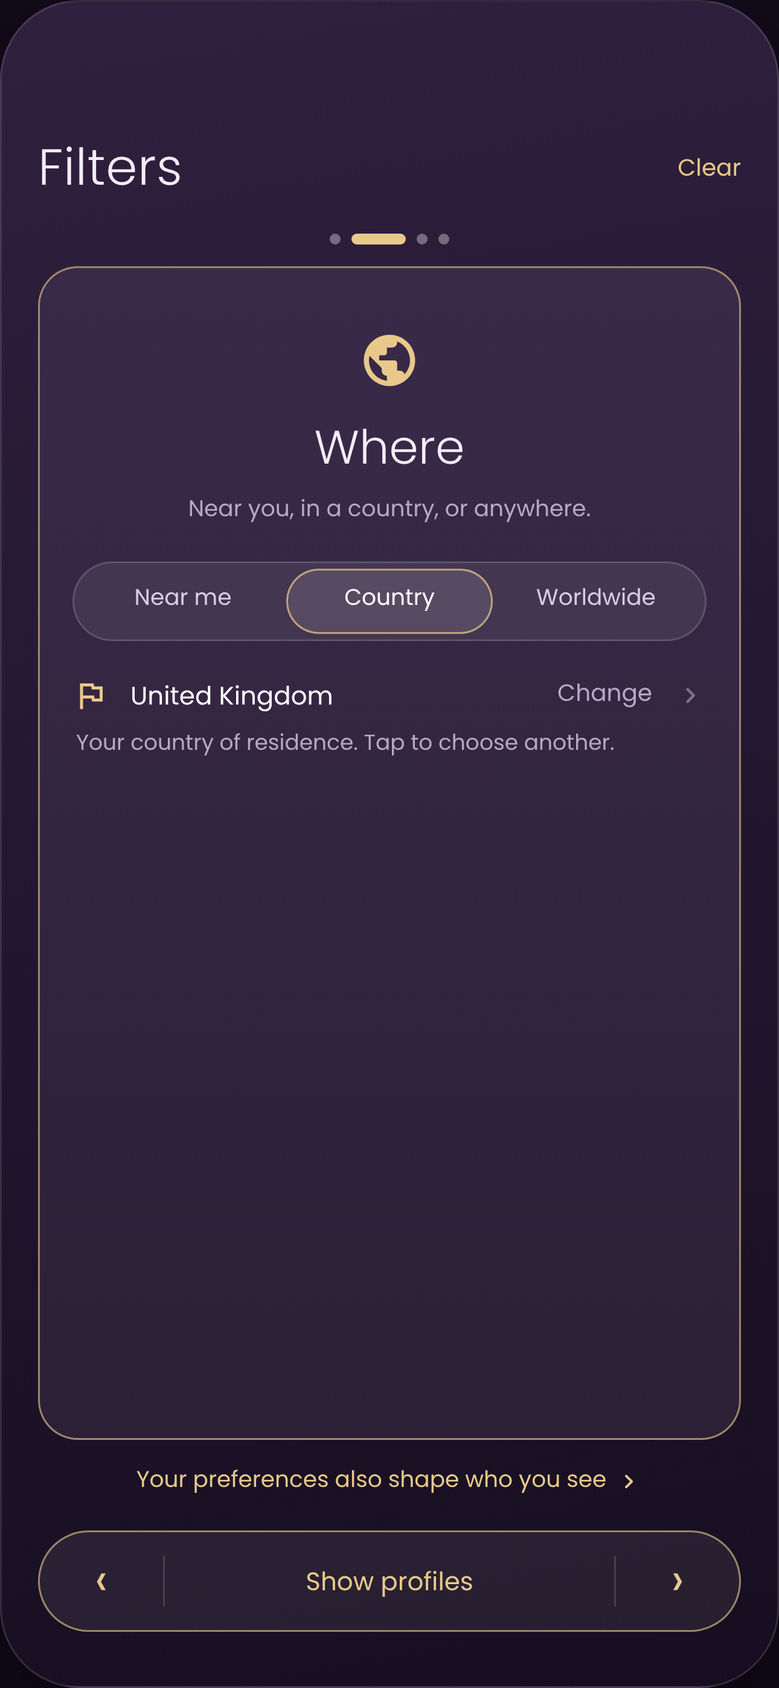
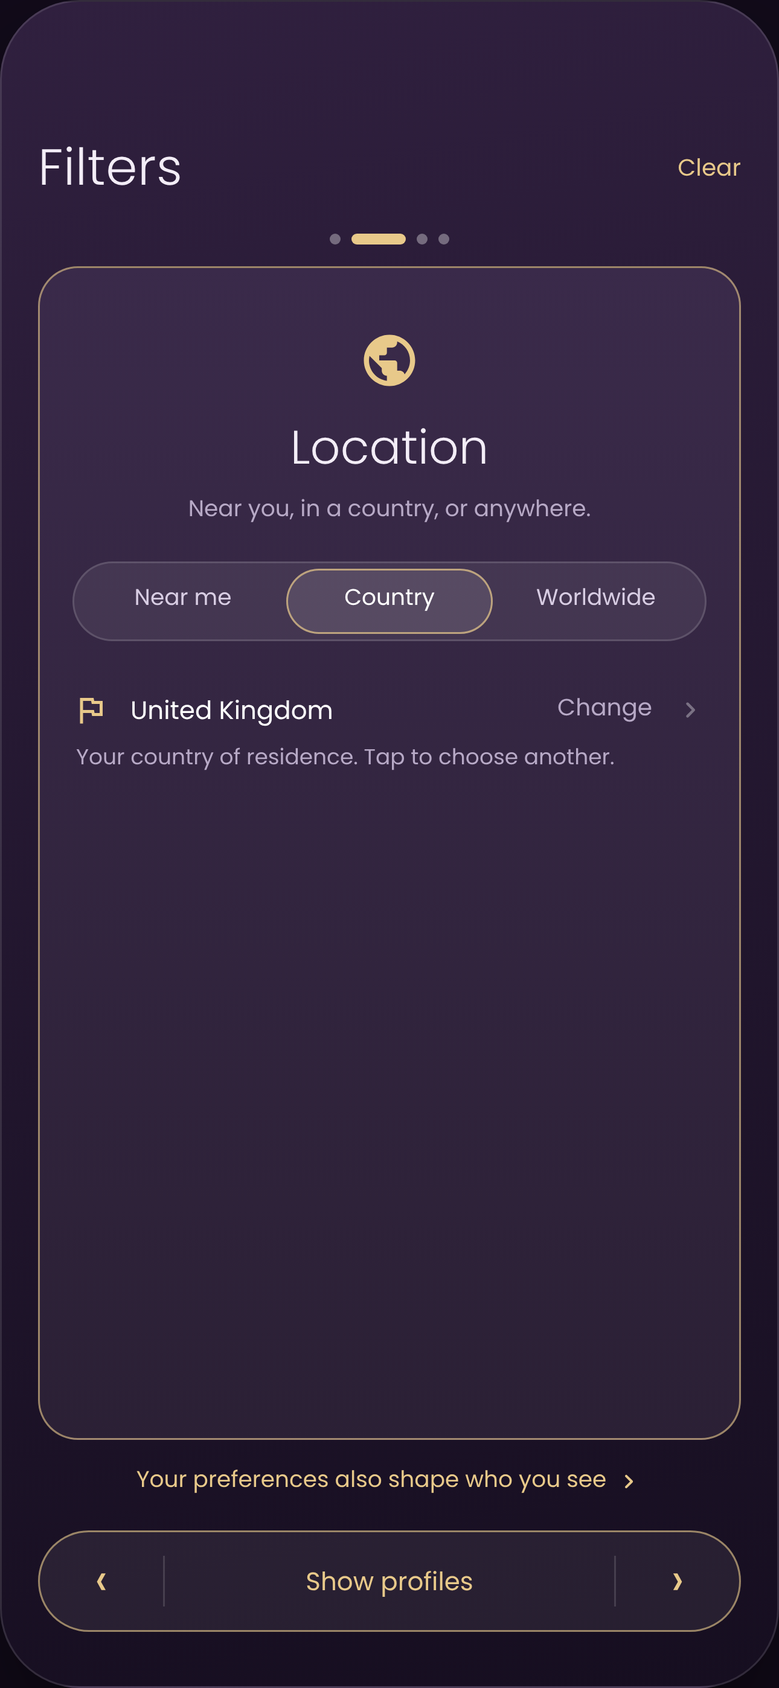
Apply LOCK10 V6 Location title and slider spacing (OA-ZYRA-316, AD-AIOS-115)

Changed region(s): [[0.093, 0.4045, 0.8372, 0.4667], [0.3721, 0.2489, 0.6202, 0.28]]

diff --git a/SOURCE/lib/dev/zyra_one_journey_filters_presentation.dart b/SOURCE/lib/dev/zyra_one_journey_filters_presentation.dart
@@ -1,4 +1,4 @@
-// LOCK10 V4 presentation for the local sample preview. No repositories,
+// LOCK10 V6 presentation for the local sample preview. No repositories,
 // transports, device permission, private answers or member counts.
 import 'package:flutter/material.dart';
 import '../data/zyra_reference_data.dart';
@@ -36,7 +36,7 @@ class _FiltersState extends State<ZyraOneJourneyFiltersPresentation> {
   final _focus = FocusNode();
   int _index = 0;
   int _pageEpoch = 0;
-  static const _names = ['Age', 'Where', 'Nationality', 'Ethnicity'];
+  static const _names = ['Age', 'Location', 'Nationality', 'Ethnicity'];
   static const _icons = [
     Icons.cake_outlined,
     Icons.public,
@@ -194,6 +194,7 @@ class _FiltersState extends State<ZyraOneJourneyFiltersPresentation> {
     );
     return _control(
       Container(
+        key: ValueKey('${prefix}_segments'),
         padding: const EdgeInsets.all(3),
         decoration: BoxDecoration(
           color: ZyraColors.surfaceFill,
@@ -311,6 +312,7 @@ class _FiltersState extends State<ZyraOneJourneyFiltersPresentation> {
           'concept_age',
         ),
         if (f.hasAgeRange) ...[
+          const SizedBox(height: 26),
           _slider(
             RangeSlider(
               key: const ValueKey('concept_age_range'),
@@ -351,7 +353,7 @@ class _FiltersState extends State<ZyraOneJourneyFiltersPresentation> {
           (i) => _change(f.withWhere(ZyraBrowseWhere.values[i])),
           'concept_where',
         ),
-        const SizedBox(height: 12),
+        const SizedBox(height: 22),
         if (f.where == ZyraBrowseWhere.country) ...[
           _placeRow(
             Icons.outlined_flag,
@@ -367,18 +369,22 @@ class _FiltersState extends State<ZyraOneJourneyFiltersPresentation> {
         ] else if (f.where == ZyraBrowseWhere.worldwide)
           _text('Members anywhere in the world.', align: TextAlign.center)
         else ...[
-          _placeRow(
-            widget.currentArea ? Icons.my_location : Icons.home_outlined,
-            widget.currentArea
-                ? 'From your current area'
-                : zyraBrowseSampleOriginLabel,
-            _button(
-              'concept_filter_origin',
-              'Change',
-              widget.canAct() ? widget.onOrigin : null,
-              size: 12,
+          KeyedSubtree(
+            key: const ValueKey('concept_filter_origin_row'),
+            child: _placeRow(
+              widget.currentArea ? Icons.my_location : Icons.home_outlined,
+              widget.currentArea
+                  ? 'From your current area'
+                  : zyraBrowseSampleOriginLabel,
+              _button(
+                'concept_filter_origin',
+                'Change',
+                widget.canAct() ? widget.onOrigin : null,
+                size: 12,
+              ),
             ),
           ),
+          const SizedBox(height: 18),
           _slider(
             Slider(
               key: const ValueKey('concept_radius'),

diff --git a/SOURCE/test/visual/lock10_filters_capture_test.dart b/SOURCE/test/visual/lock10_filters_capture_test.dart
@@ -1,4 +1,4 @@
-// Actual LOCK10 V4 local shell interactions. Insets prove layout only:
+// Actual LOCK10 V6 local shell interactions. Insets prove layout only:
 // the headless renderer cannot provide an iPhone system keyboard.
 import 'package:flutter/material.dart';
 import 'package:flutter_test/flutter_test.dart';
@@ -47,7 +47,7 @@ void main() {
             file,
             file,
             inset
-                ? 'HEADLESS INSET LAYOUT ONLY; actual system keyboard proof pending OA-ZYRA-323.'
+                ? 'HEADLESS INSET LAYOUT ONLY; native keyboard proof is separately captured from installed V4 aab4973.'
                 : 'Actual sample shell; network blocked.',
             fileName: '$file.png',
           );
@@ -73,6 +73,11 @@ void main() {
       );
       await h.flush();
       expect(
+        t.getRect(key('concept_age_range')).top -
+            t.getRect(key('concept_age_segments')).bottom,
+        26,
+      );
+      expect(
         h.latest.browseFilter.hasAgeRange,
         isFalse,
         reason: 'Editing is not applied to the checkpoint.',
@@ -80,12 +85,23 @@ void main() {
       await cap('f02_age__range');
       await h.tap('concept_reset_filter_draft');
       await h.tap('filter_next');
-      expect(find.bySemanticsLabel('Where, filter 2 of 4'), findsOneWidget);
+      expect(find.bySemanticsLabel('Location, filter 2 of 4'), findsOneWidget);
+      expect(find.text('Location'), findsOneWidget);
       expect(find.text('United Kingdom'), findsOneWidget);
       await cap('f03_where__country');
       await h.tap('concept_where_0');
       expect(t.widget<Slider>(key('concept_radius')).value, 4);
       expect(find.text('Within 50 km'), findsOneWidget);
+      expect(
+        t.getRect(key('concept_filter_origin_row')).top -
+            t.getRect(key('concept_where_segments')).bottom,
+        22,
+      );
+      expect(
+        t.getRect(key('concept_radius')).top -
+            t.getRect(key('concept_filter_origin_row')).bottom,
+        18,
+      );
       await cap('f04_where__near_me');
       await h.tap('concept_filter_origin');
       expect(find.text('Where should distance start?'), findsOneWidget);

diff --git a/SOURCE/test/filters_lock10_accessibility_test.dart b/SOURCE/test/filters_lock10_accessibility_test.dart
@@ -79,6 +79,11 @@ void main() {
           expect(range.semanticFormatterCallback!(24), '24 years');
           await t.tap(k('filter_next'));
           await t.pumpAndSettle();
+          expect(
+            find.bySemanticsLabel('Location, filter 2 of 4'),
+            findsOneWidget,
+          );
+          expect(find.text('Location'), findsOneWidget);
           await t.ensureVisible(k('concept_where_0'));
           await t.tap(k('concept_where_0'));
           await t.pumpAndSettle();

diff --git a/PRODUCT/APPROVED/FILTERS/RECORD/FILTERS_SPEC_CURRENT_VERSION_V6.md b/PRODUCT/APPROVED/FILTERS/RECORD/FILTERS_SPEC_CURRENT_VERSION_V6.md
@@ -1,0 +1,62 @@
+---
+id: TBC (Fable assigns)
+type: SPEC
+status: CURRENT
+feature: PRODUCT BLUEPRINT
+purpose: Spec for LOCK 10 - Filters page (V4 - swipe cards, one filter per card; Where; searchable Nationality and Ethnicity)
+links: [DOC-ZYRA-0284, DOC-ZYRA-0329, AD-AIOS-115]
+owner: ZYRA chat
+---
+
+# FILTERS — SPEC — V6 (LOCKED 30 OCT 2026)
+
+V5 is in `../ARCHIVE/FILTERS_SPEC_2026-10-30_V5.md`. **What changed (V6):** the "Where" card is now titled **"Location"** (Founder 30 Oct:
+"lets change this to location"); f03–f05 re-rendered (prototype V84). Everything else as V5.
+
+V4 is in `../ARCHIVE/FILTERS_SPEC_2026-10-30_V4.md` (its f01–f05 in `../ARCHIVE/MASTERS_V4/`). **What changed (V5):** more space
+between the segmented pills and the sliders (Founder 30 Oct: "the slider in real app is way to close to the 2 pills above it fix
+that please"). f01–f05 re-rendered (prototype V83); nothing else changes.
+
+V1–V3 are in `../ARCHIVE/` (V3 masters in `../ARCHIVE/MASTERS_V3/`). **What changed** (Founder 30 Oct, prototype comments):
+"remove" (Best matches line) · "lets also try the card style for this page you know swiping left to right" · "how can a person find
+a nationality that isnt on here same will apply to ethnicity" · "remove text" ×2 · then **"after everythign is changed lock in
+filter page for codex"**. The **Where** rules and real geography from V3 are unchanged; the page becomes swipe cards.
+
+Masters (430 × 932 @3x, prototype V65) in `../MASTERS/`: f01 `age__any`, f02 `age__range`, f03 `where__country`, f04
+`where__near_me`, f05 `where__worldwide`, f06 `nationality__popular`, f07 `nationality__typing_keyboard`, f08
+`nationality__chosen`, f09 `ethnicity__popular`, f10 `ethnicity__no_match_keyboard`. Location sheets on the Where card: LOCK 11 V2.
+
+## Page
+
+| Item | Rule |
+|---|---|
+| Header | Title "Filters"; top-right gold text button **Clear** / **Clear (n)** (n = filters switched on: Age range, Near me, any Nationality chosen, any Ethnicity chosen) |
+| Dots | Four dots under the title, the current one a long gold pill (same as Profiles) |
+| Card | One large card filling the space (radius 22, gold border at 60%, plum gradient like the Profiles details card, padding 22/18). Content starts at the top: gold icon 34, title 26 light, one muted line, then the controls. Order: **Age → Location → Nationality → Ethnicity** |
+| Moving between cards | Swipe left / right on the card (not on a slider or button), or the arrows in the bottom pill. No loop: the first card's ‹ and the last card's › are disabled (faded) |
+| Under the card | Gold link **"Your preferences also shape who you see ›"** → Compatibility preferences (green / amber / red) |
+| Bottom pill | Same component as the Profiles request pill (LOCK 7): one pill, 56 high, gold border — **‹** · **Show profiles** (gold text, applies and returns to Profiles) · **›** |
+| Keyboard | When a search box is focused the system keyboard opens (return "Done"); the link and bottom pill hide; the card shrinks to sit above the keyboard. Done / tap outside closes it. The masters draw an iPhone keyboard only to show the layout — use the system keyboard |
+| Removed | "Best matches are shown first" line; the old list layout; City search; Country of residence row |
+
+## Cards
+
+| Card | Content |
+|---|---|
+| **Age** (f01, f02) | "Any age, or set a range."; segmented "Any age (18+)" / "Set range", then **26 points of space**; with Set range a two-handle slider 18–70, live label "24 – 32", ends "18" / "70" |
+| **Location** (f03–f05; was "Where") | Title "Location"; "Near you, in a country, or anywhere."; segmented **Near me · Country · Worldwide** (default Country), then **22 points of space**. Near me: LOCK 11 origin line, **18 points of space**, then the one-handle slider 5…500 km (steps 5, 10, 15, 25, 50, 75, 100, 150, 200, 300, 500), default "Within 50 km", ends "5 km" / "500 km". Country: row with flag icon, the member's country of residence (e.g. "United Kingdom"), "Change ›" → the full country list; line "Your country of residence. Tap to choose another." Worldwide: "Members anywhere in the world." |
+| **Nationality** (f06–f08) | "Search any nationality and add one or more."; search box "Search any nationality". Box empty → small caps **POPULAR** + up to 8 suggestion chips with a gold "+" (British, Pakistani, Bangladeshi, Indian, Somali, Moroccan, Egyptian, Turkish), minus chosen ones. Typing → **MATCHES**: up to 8 names **containing** the text (case-insensitive) from the **full list in `SOURCE/lib/data/zyra_reference_data.dart` (nationality names, 196)**; none → "No nationality called "<text>"." Tap a chip → added as a gold chip with × above POPULAR, box clears. Several allowed. Nothing chosen = any nationality (no extra text) |
+| **Ethnicity** (f09, f10) | Same pattern: "Search any ethnicity and add one or more."; full list = `zyraEthnicities` in the same file **minus "Prefer not to say"** (28); POPULAR: Pakistani, Arab, Bangladeshi, Indian, Black African, Somali, Turkish, Mixed heritage; no match → "No ethnicity called "<text>"." |
+
+## Rules (from V3, unchanged)
+
+| Rule | Detail |
+|---|---|
+| Real geography | Real places with real map positions (proposed: GeoNames, CC-BY 4.0 — attribution in the app licences page); real km worked out on the server. In the preview, sample cities use their real positions |
+| Privacy | Only the town / rough area is stored, never an exact spot; no distances on cards or profiles |
+| Filter only on what is on the card | Only Age, Location, Nationality, Ethnicity. Private or Unlock answers (sect, children, marital status, education, language, height…) are never filters — they work through green / amber / red preferences |
+| Not filters | Verified, completed bio, membership (ZYRA One / Guardian One), Compatibility score, City |
+| No member counts — ever | Never show how many profiles or members match; the only number is Clear (n) |
+| Duplicate label | The reference list has "Dominican" for both Dominica and the Dominican Republic: show "Dominican (Dominica)" and "Dominican (Dominican Republic)" in this filter |
+| Accessibility | Each card is announced "Age, filter 1 of 4" / "Location, filter 2 of 4"; swipe has button equivalents (the arrows); sliders adjustable with VoiceOver; chips are buttons ("Add Algerian" / "Remove Algerian"); Larger Text wraps, never clips |
+| Server (not in this build) | Real place list, member positions, distance/country/nationality/ethnicity filtering: Fable's DOC-ZYRA-0329 (+ DPIA for location) |

diff --git a/PRODUCT/APPROVED/FILTERS/ARCHIVE/FILTERS_SPEC_2026-10-30_V5.md b/PRODUCT/APPROVED/FILTERS/ARCHIVE/FILTERS_SPEC_2026-10-30_V5.md
@@ -1,0 +1,59 @@
+---
+id: TBC (Fable assigns)
+type: SPEC
+status: ARCHIVED (2026-10-30)
+feature: PRODUCT BLUEPRINT
+purpose: Spec for LOCK 10 - Filters page (V4 - swipe cards, one filter per card; Where; searchable Nationality and Ethnicity)
+links: [DOC-ZYRA-0284, DOC-ZYRA-0329, AD-AIOS-115]
+owner: ZYRA chat
+---
+
+# FILTERS — SPEC — V5 (LOCKED 30 OCT 2026)
+
+V4 is in `../ARCHIVE/FILTERS_SPEC_2026-10-30_V4.md` (its f01–f05 in `../ARCHIVE/MASTERS_V4/`). **What changed (V5):** more space
+between the segmented pills and the sliders (Founder 30 Oct: "the slider in real app is way to close to the 2 pills above it fix
+that please"). f01–f05 re-rendered (prototype V83); nothing else changes.
+
+V1–V3 are in `../ARCHIVE/` (V3 masters in `../ARCHIVE/MASTERS_V3/`). **What changed** (Founder 30 Oct, prototype comments):
+"remove" (Best matches line) · "lets also try the card style for this page you know swiping left to right" · "how can a person find
+a nationality that isnt on here same will apply to ethnicity" · "remove text" ×2 · then **"after everythign is changed lock in
+filter page for codex"**. The **Where** rules and real geography from V3 are unchanged; the page becomes swipe cards.
+
+Masters (430 × 932 @3x, prototype V65) in `../MASTERS/`: f01 `age__any`, f02 `age__range`, f03 `where__country`, f04
+`where__near_me`, f05 `where__worldwide`, f06 `nationality__popular`, f07 `nationality__typing_keyboard`, f08
+`nationality__chosen`, f09 `ethnicity__popular`, f10 `ethnicity__no_match_keyboard`. Location sheets on the Where card: LOCK 11 V2.
+
+## Page
+
+| Item | Rule |
+|---|---|
+| Header | Title "Filters"; top-right gold text button **Clear** / **Clear (n)** (n = filters switched on: Age range, Near me, any Nationality chosen, any Ethnicity chosen) |
+| Dots | Four dots under the title, the current one a long gold pill (same as Profiles) |
+| Card | One large card filling the space (radius 22, gold border at 60%, plum gradient like the Profiles details card, padding 22/18). Content starts at the top: gold icon 34, title 26 light, one muted line, then the controls. Order: **Age → Where → Nationality → Ethnicity** |
+| Moving between cards | Swipe left / right on the card (not on a slider or button), or the arrows in the bottom pill. No loop: the first card's ‹ and the last card's › are disabled (faded) |
+| Under the card | Gold link **"Your preferences also shape who you see ›"** → Compatibility preferences (green / amber / red) |
+| Bottom pill | Same component as the Profiles request pill (LOCK 7): one pill, 56 high, gold border — **‹** · **Show profiles** (gold text, applies and returns to Profiles) · **›** |
+| Keyboard | When a search box is focused the system keyboard opens (return "Done"); the link and bottom pill hide; the card shrinks to sit above the keyboard. Done / tap outside closes it. The masters draw an iPhone keyboard only to show the layout — use the system keyboard |
+| Removed | "Best matches are shown first" line; the old list layout; City search; Country of residence row |
+
+## Cards
+
+| Card | Content |
+|---|---|
+| **Age** (f01, f02) | "Any age, or set a range."; segmented "Any age (18+)" / "Set range", then **26 points of space**; with Set range a two-handle slider 18–70, live label "24 – 32", ends "18" / "70" |
+| **Where** (f03–f05) | "Near you, in a country, or anywhere."; segmented **Near me · Country · Worldwide** (default Country), then **22 points of space**. Near me: LOCK 11 origin line, **18 points of space**, then the one-handle slider 5…500 km (steps 5, 10, 15, 25, 50, 75, 100, 150, 200, 300, 500), default "Within 50 km", ends "5 km" / "500 km". Country: row with flag icon, the member's country of residence (e.g. "United Kingdom"), "Change ›" → the full country list; line "Your country of residence. Tap to choose another." Worldwide: "Members anywhere in the world." |
+| **Nationality** (f06–f08) | "Search any nationality and add one or more."; search box "Search any nationality". Box empty → small caps **POPULAR** + up to 8 suggestion chips with a gold "+" (British, Pakistani, Bangladeshi, Indian, Somali, Moroccan, Egyptian, Turkish), minus chosen ones. Typing → **MATCHES**: up to 8 names **containing** the text (case-insensitive) from the **full list in `SOURCE/lib/data/zyra_reference_data.dart` (nationality names, 196)**; none → "No nationality called "<text>"." Tap a chip → added as a gold chip with × above POPULAR, box clears. Several allowed. Nothing chosen = any nationality (no extra text) |
+| **Ethnicity** (f09, f10) | Same pattern: "Search any ethnicity and add one or more."; full list = `zyraEthnicities` in the same file **minus "Prefer not to say"** (28); POPULAR: Pakistani, Arab, Bangladeshi, Indian, Black African, Somali, Turkish, Mixed heritage; no match → "No ethnicity called "<text>"." |
+
+## Rules (from V3, unchanged)
+
+| Rule | Detail |
+|---|---|
+| Real geography | Real places with real map positions (proposed: GeoNames, CC-BY 4.0 — attribution in the app licences page); real km worked out on the server. In the preview, sample cities use their real positions |
+| Privacy | Only the town / rough area is stored, never an exact spot; no distances on cards or profiles |
+| Filter only on what is on the card | Only Age, Where, Nationality, Ethnicity. Private or Unlock answers (sect, children, marital status, education, language, height…) are never filters — they work through green / amber / red preferences |
+| Not filters | Verified, completed bio, membership (ZYRA One / Guardian One), Compatibility score, City |
+| No member counts — ever | Never show how many profiles or members match; the only number is Clear (n) |
+| Duplicate label | The reference list has "Dominican" for both Dominica and the Dominican Republic: show "Dominican (Dominica)" and "Dominican (Dominican Republic)" in this filter |
+| Accessibility | Each card is announced "Age, filter 1 of 4"; swipe has button equivalents (the arrows); sliders adjustable with VoiceOver; chips are buttons ("Add Algerian" / "Remove Algerian"); Larger Text wraps, never clips |
+| Server (not in this build) | Real place list, member positions, distance/country/nationality/ethnicity filtering: Fable's DOC-ZYRA-0329 (+ DPIA for location) |

diff --git a/PRODUCT/APPROVED/LOCATION/RECORD/LOCATION_SPEC_CURRENT_VERSION_V2.md b/PRODUCT/APPROVED/LOCATION/RECORD/LOCATION_SPEC_CURRENT_VERSION_V2.md
@@ -14,13 +14,13 @@ V1 is in `../ARCHIVE/LOCATION_SPEC_2026-10-30_V1.md`, its masters in `../ARCHIVE
 redesign (LOCK 10 V3, Founder "LOCK it", 30 Oct) moved distance into the **Where** card under **Near me**, and distances use real
 places. The sheets, wording and privacy rules are unchanged; the masters are re-rendered on the new Filters page.
 
-Masters (430 × 932 @3x, prototype **V65** — re-rendered on the Filters V4 swipe-card **Where** card; the V60 list-page renders are in `../ARCHIVE/MASTERS_V2_LIST/`): `../MASTERS/location__choose_start.png`, `location__explain.png`,
+Masters (430 × 932 @3x, prototype **V65** — re-rendered on the Filters swipe-card **Location** card (V84; titled "Where" before 30 Oct 18:16); the V60 list-page renders are in `../ARCHIVE/MASTERS_V2_LIST/`): `../MASTERS/location__choose_start.png`, `location__explain.png`,
 `location__phone_prompt_reference.png` (the iPhone's own prompt — reference only, not drawn by ZYRA), `filters__from_current_area.png`.
 
 | Item | Rule |
 |---|---|
 | Default | Near me starts from the member's **home town** (a real place from the profile). No permission needed |
-| Origin line | On the Filters **Where** card (LOCK 10 V4, card 2), only when **Near me** is chosen: icon + "From Manchester (home town)" / "From your current area", gold **Change** |
+| Origin line | On the Filters **Location** card (LOCK 10 V6, card 2), only when **Near me** is chosen: icon + "From Manchester (home town)" / "From your current area", gold **Change** |
 | Choose sheet | "Where should distance start?" — "Only used to sort and filter by distance. Nobody else ever sees it." Two options with radio: **Home town** (from your profile, no permission needed) / **My current area** (uses your phone's location, roughly — never your exact spot); Done |
 | Explain first | Choosing My current area the first time shows ZYRA's own sheet: icon, "Use your current area?", the purpose text, gold **Continue**, Not now. Continue → the iPhone prompt |
 | iPhone prompt | Request "When In Use" with **approximate accuracy** (Precise off). Purpose string: "Your approximate area is used to measure distance in Filters. It is never shown to anyone." Allow → origin "your current area"; Don't Allow → stays on home town, toast "No problem — distances start from your home town." Later attempts after a refusal point to iPhone Settings |

diff --git a/PRODUCT/APPROVED/FILTERS/RECORD/LOCK_RECORD.md b/PRODUCT/APPROVED/FILTERS/RECORD/LOCK_RECORD.md
@@ -21,3 +21,5 @@ owner: ZYRA chat
 | 2026-10-30 ~13:00 | Queue line 25 stopped (no picture for city typing / no match / keyboard). ZYRA chat drew them (V59); → **"LOCK all three (Recommended)"** | **LOCK V2**: `RECORD/FILTERS_SPEC_CURRENT_VERSION_V2.md` + 2 new `MASTERS/` (city_search_matches, city_search_no_match). V1 spec in `ARCHIVE/` |
 | 2026-10-30 13:25–13:35 | Comment: **"…we have distance and city so why is city needed is we have distance. also we gotta allow aoption of maybe thier home contry for example uk aswell as worldwide. what do oyu suggest…"** (plus real geography, Muzz filter list) → ZYRA chat proposal V60 (Where card; filter only what is on the card) → **"LOCK it (Recommended)"** | **LOCK V3**: `RECORD/FILTERS_SPEC_CURRENT_VERSION_V3.md` + 4 `MASTERS/` (default, age_range, where_near, where_worldwide). V1/V2 in `ARCHIVE/` |
 | 2026-10-30 13:39–13:46 | Comments: **"remove and lets also try the card style for this page you know swiping left to right"** · **"this page gotta improve how can a person find a nationality that isnt on here same will apply to ethnicity"** · **"remove text"** ×2 · then **"after everythign is changed lock in filter page for codex"** | **LOCK V4**: `RECORD/FILTERS_SPEC_CURRENT_VERSION_V4.md` + 10 `MASTERS/` f01–f10 (prototype V65). V3 in `ARCHIVE/` |
+| 2026-10-30 18:16 | Comment on the Age card: **"the slider in real app is way to close to the 2 pills above it fix that please"** | **V5**: 26 pt under the Age pills, 22 pt under the Where pills, 18 pt under the origin line; f01–f05 re-rendered (V83). V4 in `ARCHIVE/` |
+| 2026-10-30 18:16 | Comment on the "Where" title: **"lets change this to location"** | **V6**: card titled "Location"; f03–f05 re-rendered (V84). V5 in `ARCHIVE/` |

diff --git a/PRODUCT/APPROVED/FILTERS/BRIEFS/BUILD_BRIEF_2026-10-30_V4.md b/PRODUCT/APPROVED/FILTERS/BRIEFS/BUILD_BRIEF_2026-10-30_V4.md
@@ -15,8 +15,8 @@ owner: ZYRA chat
 
 | Step | Detail |
 |---|---|
-| 1 | Read `../RECORD/` (spec **V4**) and the ten `../MASTERS/` pictures (f01–f10); also `LOCATION/` (LOCK 11 V2) for the origin line and sheets |
-| 2 | Founder preview `_filters` page: rebuild as four swipe cards (Age, Where, Nationality, Ethnicity) with dots, Clear (n), the preferences link and the bottom pill. Reuse the Profiles request-pill component (LOCK 7) and the Profiles dots; sample data only, no server change |
+| 1 | Read `../RECORD/` (spec **V6** — slider spacing; card titled "Location") and the ten `../MASTERS/` pictures (f01–f10); also `LOCATION/` (LOCK 11 V2) for the origin line and sheets |
+| 2 | Founder preview `_filters` page: rebuild as four swipe cards (Age, Location, Nationality, Ethnicity) with dots, Clear (n), the preferences link and the bottom pill. Reuse the Profiles request-pill component (LOCK 7) and the Profiles dots; sample data only, no server change |
 | 3 | Nationality / Ethnicity search: use the app's own lists in `SOURCE/lib/data/zyra_reference_data.dart` (nationality names; `zyraEthnicities` minus "Prefer not to say"); POPULAR, MATCHES, no-match text and chips exactly as the spec; show the two "Dominican" entries with their country in brackets |
 | 4 | Remove the old list layout, City search, Country of residence row, "Best matches are shown first" and any member count |
 | 5 | Preview distances: real latitude/longitude for the sample cities only and real km (great-circle); Near me / Country / Worldwide filter the sample people |

diff --git a/PRODUCT/APPROVED/FILTERS/ARCHIVE/FILTERS_SPEC_2026-10-30_V4.md b/PRODUCT/APPROVED/FILTERS/ARCHIVE/FILTERS_SPEC_2026-10-30_V4.md
@@ -1,7 +1,7 @@
 ---
 id: TBC (Fable assigns)
 type: SPEC
-status: CURRENT
+status: ARCHIVED (2026-10-30)
 feature: PRODUCT BLUEPRINT
 purpose: Spec for LOCK 10 - Filters page (V4 - swipe cards, one filter per card; Where; searchable Nationality and Ethnicity)
 links: [DOC-ZYRA-0284, DOC-ZYRA-0329, AD-AIOS-115]
